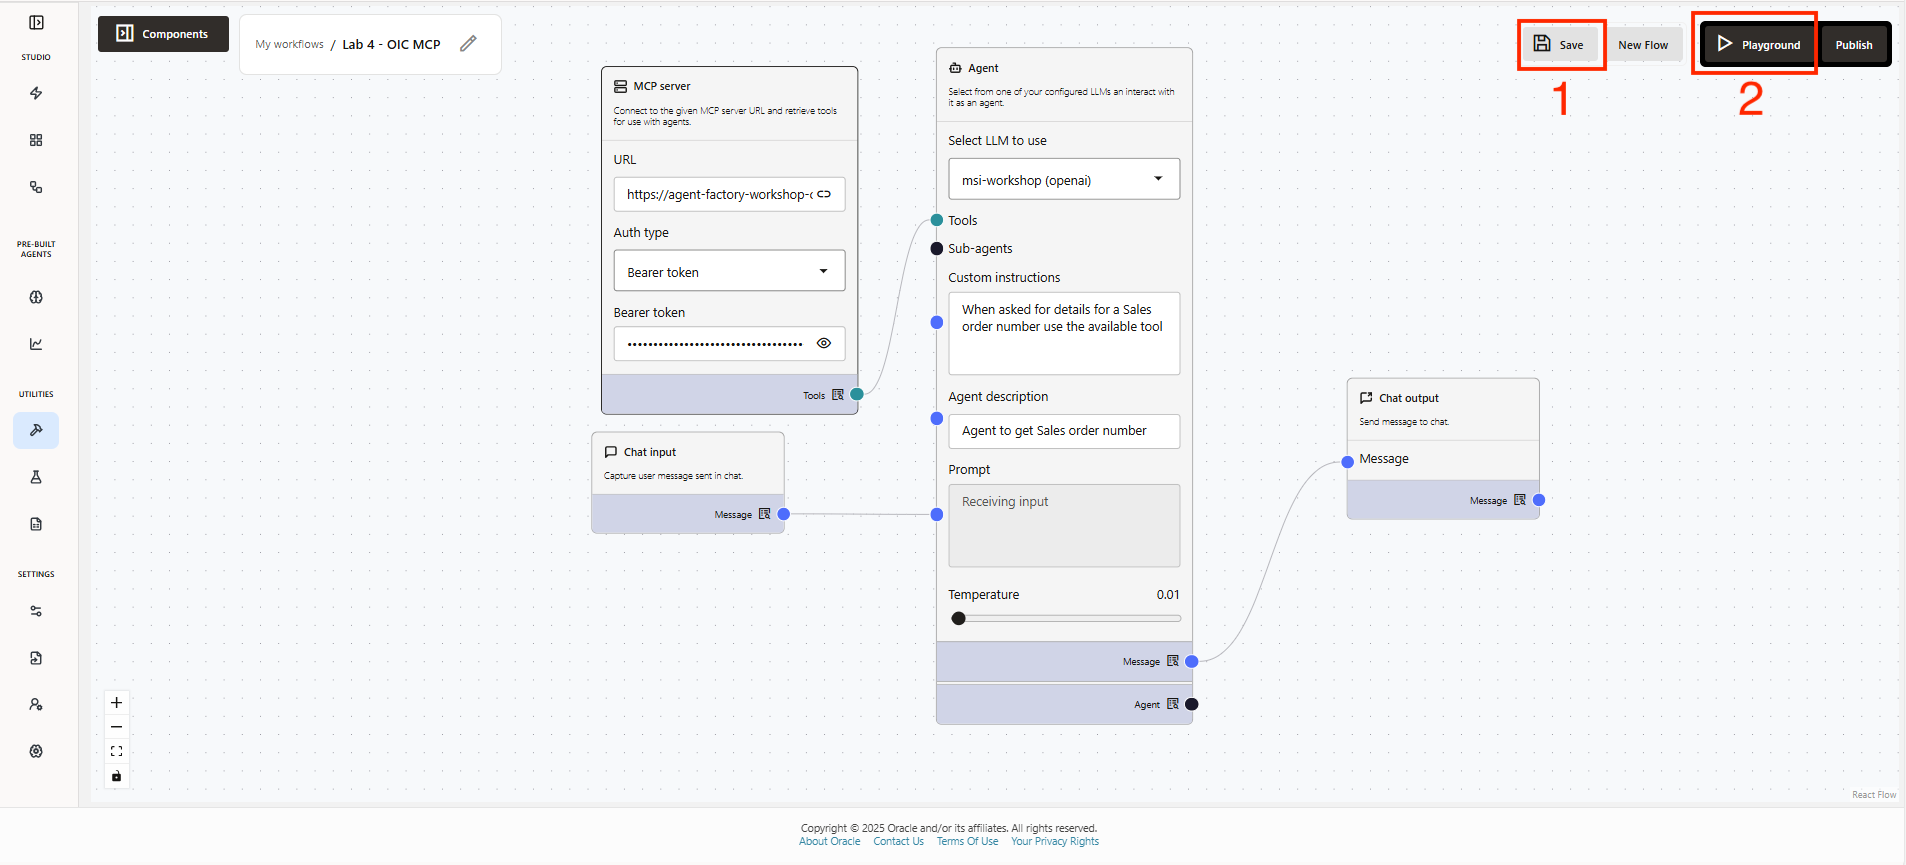
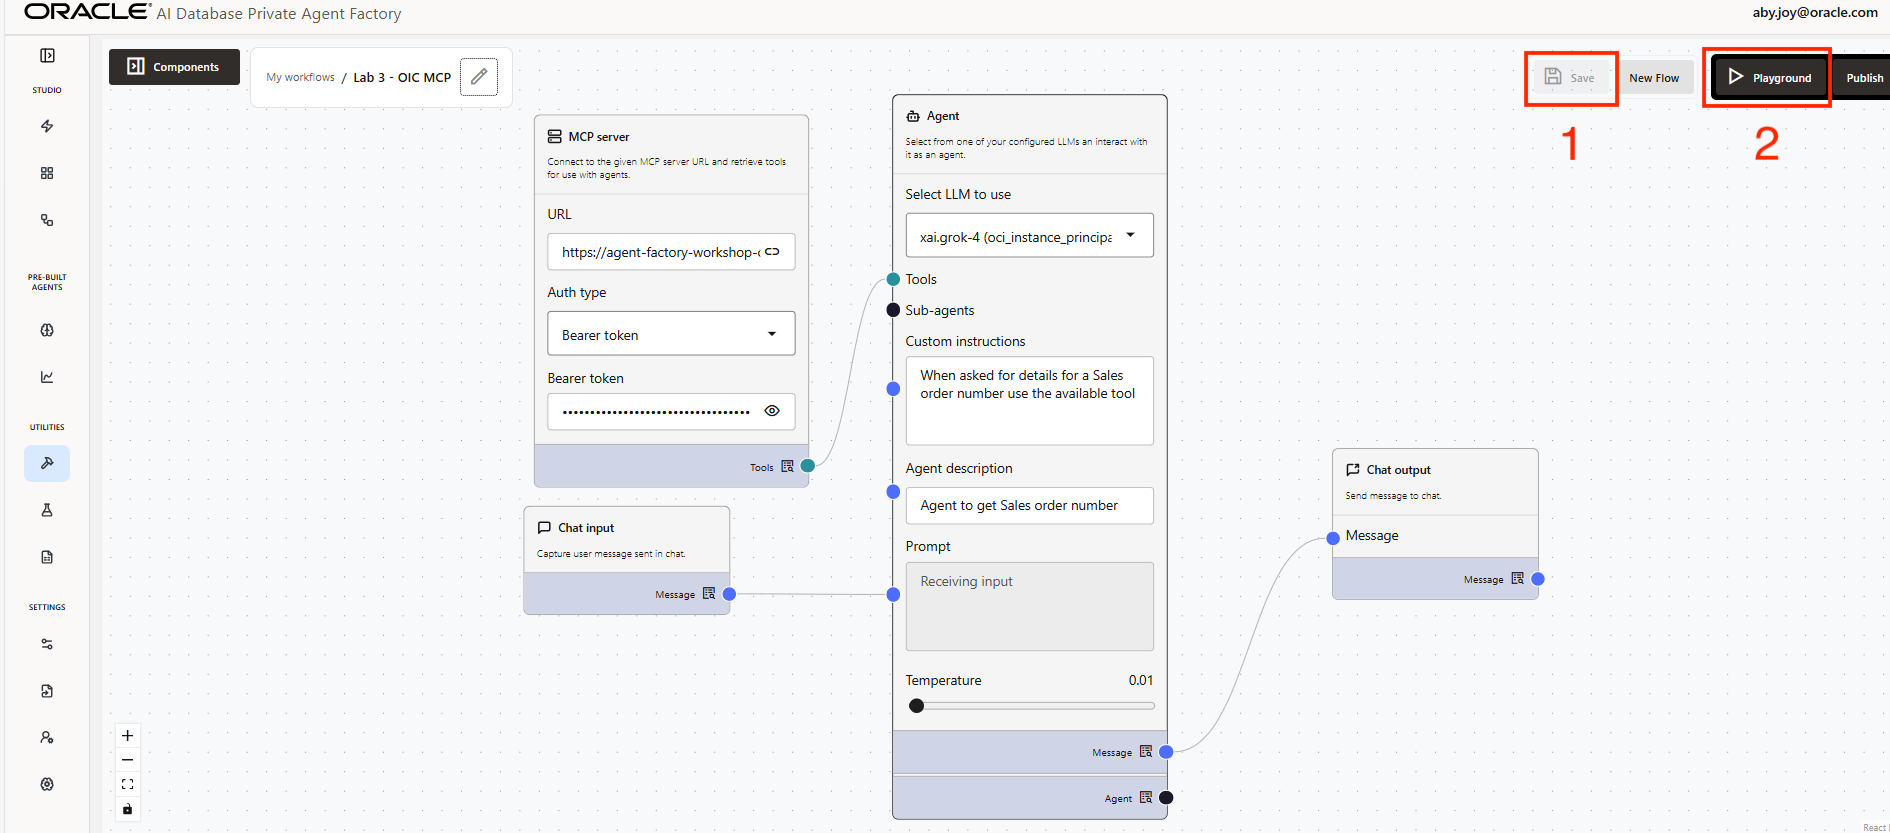
Finishing Lab 2 and Lab 3
Updated instructions, images and prompts for Lab 2 and Lab 3

diff --git a/agent-factory/msi-workshop/ebs-sqlcl-mcp/ebs-sqlcl-mcp.md b/agent-factory/msi-workshop/ebs-sqlcl-mcp/ebs-sqlcl-mcp.md
@@ -4,7 +4,7 @@
 
 In this lab session, you will learn how to use the Agent Builder in Oracle AI Database Private Agent Factory to leverage SQLcl MCP server connected to an E-Business Suite Oracle Database to analyze business data and AWR Reports.
 
-**Estimated time:** 10 minutes.
+**Estimated time:** 30 minutes.
 
 ### Objectives
 
@@ -22,15 +22,11 @@ In this lab session, you will learn how to use the Agent Builder in Oracle AI Da
 
 ## Task 1: Create a new agent in Agent Builder
 
-** TAKE OUT LATER: Steps - assemble nodes, configure sqlcl mcp server, leave agent prompt empty, give it a title, save, playground, test by asking what tools are available
-
 Navigate to the **Agent Builder** tab on the left-hand menu. <span style="color:red;">If there is already an agent configuration present from a previous lab, click **New Flow**.</span>
 
 ![Open Agent Builder](./images/open-agent-builder.png " ")
 
 ## Task 2: Customize agent for business questions
-
-** TAKE OUT LATER: Steps - update agent prompt so it responds to business specific questions, try 2-3 sample questions
 
 To assemble this custom agent in Private Agent Factory we will need our MCP server URL. This will be provided to you by instructors for the purpose of this lab.
 
@@ -65,6 +61,21 @@ In the MCP Server component you will need to:
 **3.2 Agent Component**
 
 1. In the Agent, for the "Select LLM to use" field select **xai.grok-4.reasoning**.
+2. In the custom instructions add
+    ```
+    <copy>
+    You are an Oracle DBA expert in analyzing AWR reports. Answer the user's query.
+
+    Use the SQL query provided to you.
+
+    SELECT *
+    FROM awr_reports_html
+    WHERE line_num <= 1500
+    ORDER BY line_num
+
+
+    </copy>
+    ```
 
 
 <span style="color:red;">Confirm that your agent looks like this:</span>
@@ -83,21 +94,97 @@ In the MCP Server component you will need to:
 
     ```
     <copy>
-    TODO
+    Connect to the EBSDB database. For the questions here - do not give me IDs. Look for answers in the ONT, OE, WMS, WSH, QP, MTL and related schemas only
+    </copy>
+    ```
+
+Please see example output for the above prompt below.
+
+![Playground](./images/Lab2-Task2-Output.png " ")
+
+4. These are other prompts that may be used to interact with this agent.
+
+    ```
+    <copy>
+    Can you give me the status of 10 open sales orders with the highest value. Order Status at the header level is sufficient, Restrict to Commercial Price List accounts?
+    </copy>
+    ```
+
+    ```
+    <copy>
+    Also show me Order Status, Customer Name, Class.
+    </copy>
+    ```
+
+    ```
+    <copy>
+    Show me top 10 open orders for Hilman and Associates only.
+    </copy>
+    ```
+
+    ```
+    <copy>
+    Show me details for Order 104134 including quantity ordered and shipped.
+    </copy>
+    ```
+
+    ```
+    <copy>
+    Show me the status of the lines. Are they still open?
+    </copy>
+    ```
+
+    ```
+    <copy>
+    If the lines are closed, why is the status at the Order level "Booked" and not "Closed"?
+    </copy>
+    ```
+
+    ```
+    <copy>
+    It looks like the Workflow is stuck? Can you give me a technical fix that my DBA can run?
     </copy>
     ```
 
 
 ## Task 3: Customize agent for AWR Reports
 
-** Steps - update agent prompt to analyze AWR reports, try 2-3 sample questions
+We will use the same agent to analyze AWR reports.
 
-Congratulations! You are ready to building agents of your own.
+1. Start a new chat by clicking the "New chat" button on the right hand side of your chat interface.
+
+![Start new chat](./images/start-new-chat.png " ")
+
+2. Add the following prompt:
+
+
+    ```
+    <copy>
+    Run an AWR Report
+    </copy>
+    ```
+
+Please see example output for the above prompt below.
+
+![Example](./images/run-awr-report-output1.png " ")
+![Example](./images/run-awr-report-output2.png " ")
+
+
+3. Other prompts that may be used to interact with this agent:
+
+    ```
+    <copy>
+    What are the biggest risks facing my database? Any actions I should take this week?
+    </copy>
+    ```
+
+Congratulations! You have successfully finished this lab.
 
 ## Acknowledgements
 
 **Authors** 
 
 * Kumar Varun, Senior Principal Product Manager, Database Applied AI
+* Sania Bolla, Cloud Engineer
 
 **Last Updated Date** - March, 2026

diff --git a/agent-factory/msi-workshop/ebs-db-thru-oic/ebs-db-thru-oic.md b/agent-factory/msi-workshop/ebs-db-thru-oic/ebs-db-thru-oic.md
@@ -70,7 +70,7 @@ In the MCP Server component you will need to:
 
 **3.2 Agent Component**
 
-1. In the Agent, for the "Select LLM to use" field select the **msi-workshop (openai) LLM**.
+1. In the Agent, for the "Select LLM to use" field select the **xai.grok-4**.
 
 2. In the "Custom instructions" field for Agent copy/paste:
     ```
@@ -91,13 +91,23 @@ In the MCP Server component you will need to:
 
 ![Playground](./images/PAF-Playground.png " ")
 
-3. Add the following prompt:
+3. Add the following prompts one after the other:
 
     ```
     <copy>
-    TODO
+    Give me details for order 500000
     </copy>
     ```
+
+    ```
+    <copy>
+    Give me the ordered date and pricing date for order 500000
+    </copy>
+    ```
+
+Please see example output for the above prompts below.
+
+![Lab3-Task3](./images/Lab3-Task3-Output.png " ")
 
 
 Congratulations! You have successfully finished this lab.
